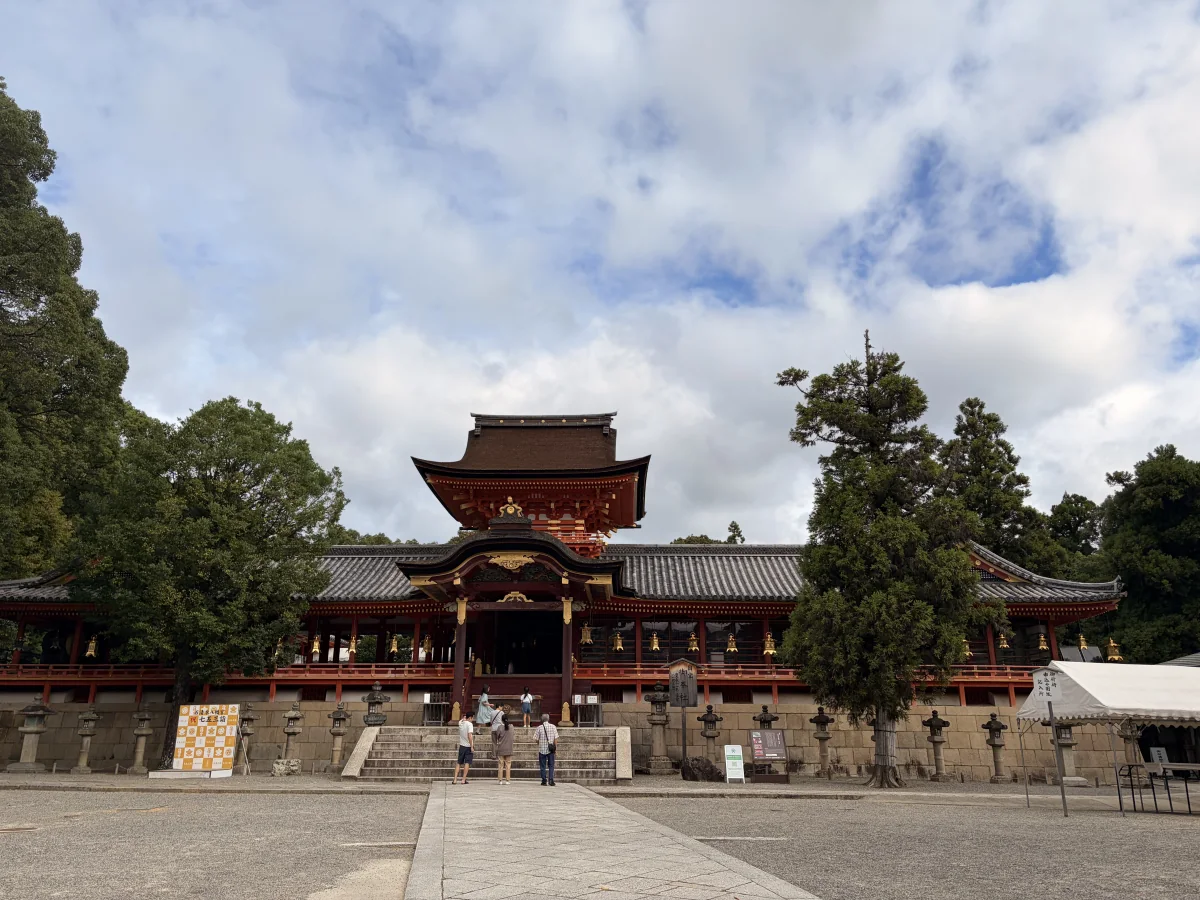
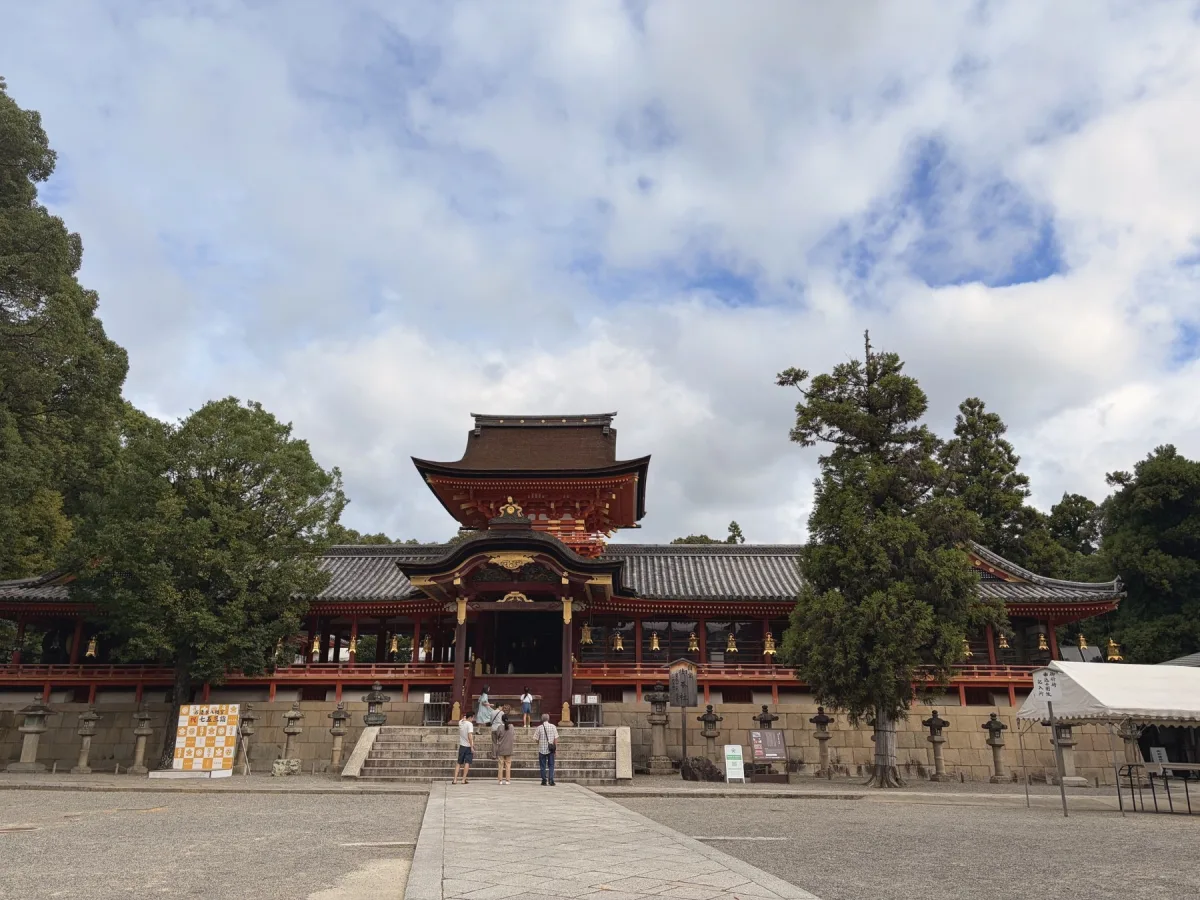
Use corrected Iwashimizu photo across related pages

diff --git a/journal/arriving-around-noon-relaxed-first-afternoon.html b/journal/arriving-around-noon-relaxed-first-afternoon.html
@@ -25,15 +25,15 @@
   <meta property="og:title" content="Arriving Around Noon? A Relaxed First Afternoon Near The Showa House" />
   <meta property="og:description" content="A shrine walk, a hilltop view, a local sweet, and an easy evening in Kuzuha." />
   <meta property="og:url" content="https://theshowahouse.github.io/journal/arriving-around-noon-relaxed-first-afternoon.html" />
-  <meta property="og:image" content="https://theshowahouse.github.io/assets/a-week-in-japan/iwashimizu-hachimangu.webp" />
+  <meta property="og:image" content="https://theshowahouse.github.io/assets/iwashimizu-hachimangu/corrected/main-shrine-corrected-1800.webp" />
   <meta property="og:image:width" content="1800" />
-  <meta property="og:image:height" content="1199" />
+  <meta property="og:image:height" content="1350" />
   <meta property="og:site_name" content="The Showa House" />
 
   <meta name="twitter:card" content="summary_large_image" />
   <meta name="twitter:title" content="Arriving Around Noon? A Relaxed First Afternoon Near The Showa House" />
   <meta name="twitter:description" content="A shrine walk, a hilltop view, a local sweet, and an easy evening in Kuzuha." />
-  <meta name="twitter:image" content="https://theshowahouse.github.io/assets/a-week-in-japan/iwashimizu-hachimangu.webp" />
+  <meta name="twitter:image" content="https://theshowahouse.github.io/assets/iwashimizu-hachimangu/corrected/main-shrine-corrected-1800.webp" />
 
   <script type="application/ld+json">
   {
@@ -43,7 +43,7 @@
         "@type": "Article",
         "headline": "Arriving Around Noon? A Relaxed First Afternoon Near The Showa House",
         "description": "A relaxed arrival-day itinerary near The Showa House, with Iwashimizu Hachimangu, a hilltop view, a local sweet, and an easy evening in Kuzuha.",
-        "image": "https://theshowahouse.github.io/assets/a-week-in-japan/iwashimizu-hachimangu.webp",
+        "image": "https://theshowahouse.github.io/assets/iwashimizu-hachimangu/corrected/main-shrine-corrected-1800.webp",
         "datePublished": "2026-08-10",
         "dateModified": "2026-08-10",
         "author": {"@type": "Organization", "name": "The Showa House"},

diff --git a/journal/autumn-colors-between-kyoto-and-osaka.html b/journal/autumn-colors-between-kyoto-and-osaka.html
@@ -263,7 +263,7 @@
       </div>
 
       <figure class="article-hero">
-        <img src="../assets/a-week-in-japan/iwashimizu-hachimangu.webp" alt="Vermilion buildings of Iwashimizu Hachimangu Shrine on Mount Otokoyama" width="1800" height="1199" loading="lazy" decoding="async" />
+        <img src="../assets/iwashimizu-hachimangu/corrected/main-shrine-corrected-1200.webp" srcset="../assets/iwashimizu-hachimangu/corrected/main-shrine-corrected-1200.webp 1200w, ../assets/iwashimizu-hachimangu/corrected/main-shrine-corrected-1800.webp 1800w" alt="Iwashimizu Hachimangu shrine on Mount Otokoyama near Kyoto" width="1800" height="1350" loading="lazy" decoding="async" />
         <figcaption>Iwashimizu Hachimangu on Mount Otokoyama, a short train and cable ride from Kuzuha.</figcaption>
       </figure>
 

diff --git a/journal/kyoto-or-osaka-which-should-you-visit-first.html b/journal/kyoto-or-osaka-which-should-you-visit-first.html
@@ -137,7 +137,7 @@
       </figure>
 
       <figure class="article-hero">
-        <img src="../assets/a-week-in-japan/iwashimizu-hachimangu.webp" alt="Vermilion shrine buildings among trees at Iwashimizu Hachimangu" width="1800" height="1199" loading="lazy" decoding="async" />
+        <img src="../assets/iwashimizu-hachimangu/corrected/main-shrine-corrected-1200.webp" srcset="../assets/iwashimizu-hachimangu/corrected/main-shrine-corrected-1200.webp 1200w, ../assets/iwashimizu-hachimangu/corrected/main-shrine-corrected-1800.webp 1800w" alt="Iwashimizu Hachimangu shrine on Mount Otokoyama near Kyoto" width="1800" height="1350" loading="lazy" decoding="async" />
         <figcaption>Iwashimizu Hachimangu offers a peaceful introduction to Japan close to Kuzuha.</figcaption>
       </figure>
 

diff --git a/journal/why-stay-between-kyoto-and-osaka.html b/journal/why-stay-between-kyoto-and-osaka.html
@@ -208,7 +208,7 @@
       </div>
 
       <figure class="article-hero">
-        <img src="../assets/a-week-in-japan/iwashimizu-hachimangu.webp" alt="Vermilion shrine buildings at Iwashimizu Hachimangu near Kuzuha" width="1800" height="1199" loading="lazy" decoding="async" />
+        <img src="../assets/iwashimizu-hachimangu/corrected/main-shrine-corrected-1200.webp" srcset="../assets/iwashimizu-hachimangu/corrected/main-shrine-corrected-1200.webp 1200w, ../assets/iwashimizu-hachimangu/corrected/main-shrine-corrected-1800.webp 1800w" alt="Iwashimizu Hachimangu shrine on Mount Otokoyama near Kyoto" width="1800" height="1350" loading="lazy" decoding="async" />
         <figcaption>Iwashimizu Hachimangu, reached by a short train ride and cable car from Kuzuha.</figcaption>
       </figure>
 

diff --git a/journal/five-days-in-kansai-without-changing-hotels.html b/journal/five-days-in-kansai-without-changing-hotels.html
@@ -204,7 +204,7 @@
       </figure>
 
       <figure class="article-hero">
-        <img src="../assets/a-week-in-japan/iwashimizu-hachimangu.webp" alt="Vermilion shrine buildings at Iwashimizu Hachimangu" width="1800" height="1199" loading="lazy" decoding="async" />
+        <img src="../assets/iwashimizu-hachimangu/corrected/main-shrine-corrected-1200.webp" srcset="../assets/iwashimizu-hachimangu/corrected/main-shrine-corrected-1200.webp 1200w, ../assets/iwashimizu-hachimangu/corrected/main-shrine-corrected-1800.webp 1800w" alt="Iwashimizu Hachimangu shrine on Mount Otokoyama near Kyoto" width="1800" height="1350" loading="lazy" decoding="async" />
         <figcaption>Iwashimizu Hachimangu feels removed from the city despite being close to Kuzuha.</figcaption>
       </figure>
 
